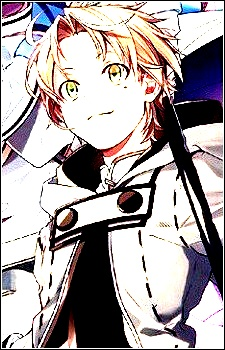
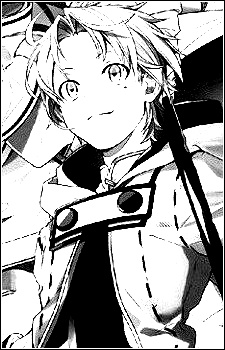
add some file

diff --git a/lab1/7.cat_lat_mat_bit.py b/lab1/7.cat_lat_mat_bit.py
@@ -1,17 +1,17 @@
 import numpy as np
 import cv2
-# https://theailearner.com/2019/01/25/bit-plane-slicing/
-# Read the image in greyscale
 img = cv2.imread('rudi.jpg',0)
-
-#Iterate over each pixel and change pixel value to binary using np.binary_repr() and store it in a list.
 lst = []
 for i in range(img.shape[0]):
     for j in range(img.shape[1]):
-         lst.append(np.binary_repr(img[i][j] ,width=8)) # width = no. of bits
+         lst.append(np.binary_repr(img[i][j] ,width=8))
 
-# We have a list of strings where each string represents binary pixel value. To extract bit planes we need to iterate over the strings and store the characters corresponding to bit planes into lists.
-# Multiply with 2^(n-1) and reshape to reconstruct the bit image.
+'''
+# Chúng tôi có một danh sách các chuỗi trong đó mỗi chuỗi đại diện cho giá trị pixel nhị phân. 
+Để trích xuất các mặt phẳng bit, 
+chúng ta cần lặp qua các chuỗi và lưu trữ các ký tự tương ứng với các mặt phẳng bit vào danh sách.
+# Nhân với 2 ^ (n-1) và định hình lại để tạo lại hình ảnh bit.
+'''
 eight_bit_img = (np.array([int(i[0]) for i in lst],dtype = np.uint8) * 128).reshape(img.shape[0],img.shape[1])
 seven_bit_img = (np.array([int(i[1]) for i in lst],dtype = np.uint8) * 64).reshape(img.shape[0],img.shape[1])
 six_bit_img = (np.array([int(i[2]) for i in lst],dtype = np.uint8) * 32).reshape(img.shape[0],img.shape[1])
@@ -21,19 +21,18 @@ three_bit_img = (np.array([int(i[5]) for i in lst],dtype = np.uint8) * 4).reshap
 two_bit_img = (np.array([int(i[6]) for i in lst],dtype = np.uint8) * 2).reshape(img.shape[0],img.shape[1])
 one_bit_img = (np.array([int(i[7]) for i in lst],dtype = np.uint8) * 1).reshape(img.shape[0],img.shape[1])
 
-#Concatenate these images for ease of display using cv2.hconcat()
+#Concatenate những hình ảnh này để dễ hiển thị bằng cv2.hconcat ()
 finalr = cv2.hconcat([eight_bit_img,seven_bit_img,six_bit_img,five_bit_img])
 finalv =cv2.hconcat([four_bit_img,three_bit_img,two_bit_img,one_bit_img])
 
-# Vertically concatenate
+# Nối theo chiều dọc
 final = cv2.vconcat([finalr,finalv])
 
-# Display the images
 cv2.imshow('a',final)
 
-# Combining 4 bit planes
+# Kết hợp các mặt phẳng 4 bit
 new_img = eight_bit_img+seven_bit_img+six_bit_img+five_bit_img
-# Display the image
+
 cv2.imshow('a2',new_img)
 cv2.waitKey(0)
 

diff --git a/lab1/can bang  histogram demo.py b/lab1/can bang  histogram demo.py
@@ -1,0 +1,50 @@
+import cv2
+import numpy as np
+import matplotlib.pyplot as plt
+
+img = cv2.imread('rudi.jpg', 0)
+img_equal_hist = cv2.equalizeHist(img)
+
+f, axes = plt.subplots(2,2, figsize=(30,20))
+axes[0, 0].imshow(cv2.cvtColor(img, cv2.COLOR_BGR2RGB))
+axes[0, 0].set_title('origin')
+axes[0, 1].imshow(cv2.cvtColor(img_equal_hist, cv2.COLOR_BGR2RGB))
+axes[0, 1].set_title('hist equal')
+axes[1, 0].hist(img.flatten(), 256, [0,256])
+axes[1, 1].hist(img_equal_hist.flatten(), 256, [0,256])
+plt.show()
+plt.close()
+
+
+
+# import numpy as np
+# import scipy.misc, math
+# from scipy.misc.pilutil import Image
+
+# img = Image.open('rudi.jpg').convert('L')
+
+# # img is converted to an ndarray
+# img1 = scipy.misc.fromimage(img)
+# # 2D array is convereted to an 1D
+# fl = img1.flatten()
+# # histogram and the bins of the image are computed
+# hist,bins = np.histogram(img1,256,[0,255])
+# # cumulative distribution function is computed
+# cdf = hist.cumsum()
+# # places where cdf=0 is masked or ignored and
+# # rest is stored in cdf_m
+# cdf_m = np.ma.masked_equal(cdf,0)
+# # histogram equalization is performed
+# num_cdf_m = (cdf_m - cdf_m.min())*255
+# den_cdf_m = (cdf_m.max()-cdf_m.min())
+# cdf_m = num_cdf_m/den_cdf_m
+# # the masked places in cdf_m are now 0
+# cdf = np.ma.filled(cdf_m,0).astype('uint8')
+
+# im2 = cdf[fl]
+
+# im3 = np.reshape(im2,img1.shape)
+
+# im4 = scipy.misc.toimage(im3)
+
+# im4.save('hequalization_output.png')

diff --git a/lab1/5.keo_dan_do_tuong_phan.py b/lab1/5.keo_dan_do_tuong_phan.py
@@ -1,22 +1,27 @@
-'''
-Contrast Stretching: keo dan do tuong phan
-p103
-'''
 import cv2 
-import cv2
-import numpy as np
+import numpy as np 
+  
+def pixelVal(pix, r1, s1, r2, s2): 
+    if (0 <= pix and pix <= r1): 
+        return (s1 / r1)*pix 
+    elif (r1 < pix and pix <= r2): 
+        return ((s2 - s1)/(r2 - r1)) * (pix - r1) + s1 
+    else: 
+        return ((255 - s2)/(255 - r2)) * (pix - r2) + s2 
+  
 
-# Read the image
-img1 = cv2.imread('rudi.jpg',0)
+img = cv2.imread('rudi_xam.jpg') 
+r1 = 70
+s1 = 0
+r2 = 140
+s2 = 255
+  
+pixelVal_vec = np.vectorize(pixelVal) 
+   
+contrast_stretched = pixelVal_vec(img, r1, s1, r2, s2) 
+ 
+cv2.imwrite('contrast_stretch.jpg', contrast_stretched) 
 
-# Create zeros array to store the stretched image
-minmax_img = np.zeros((img1.shape[0],img1.shape[1]),dtype = 'uint8')
+cv2.imshow('contrast_stretch',contrast_stretched)
 
-# Loop over the image and apply Min-Max formulae
-for i in range(img1.shape[0]):
-    for j in range(img1.shape[1]):
-        minmax_img[i,j] = 255*(img1[i,j]-np.min(img1))/(np.max(img1)-np.min(img1))
-
-# Displat the stretched image
-cv2.imshow('Minmax',minmax_img)
 cv2.waitKey(0)

diff --git a/lab1/6.cat_lat_muc_xam.py b/lab1/6.cat_lat_muc_xam.py
@@ -1,29 +1,12 @@
 import cv2 
 import numpy as np 
-# https://www.geeksforgeeks.org/point-processing-in-image-processing-using-python-opencv/
+
 img = cv2.imread('food.png',0) 
-
-# Để xác định tổng số
-# hàng và cột của hình ảnh,
-# kích thước của hình ảnh
 m,n = img.shape 
-
-# Để tìm mức xám tối đa
-# giá trị trong hình ảnh 
 L = img.max() 
-
-# Giá trị mức xám tối đa trừ
-# hình ảnh ban đầu cung cấp cho
-# hình ảnh âm bản
 img_neg = L-img 
-
-# giá trị ngưỡng thấp hơn
 T1 = 100
-
-# giá trị ngưỡng trên
 T2 = 180
-
-# tạo một mảng các số không
 img_thresh_back = np.zeros((m,n), dtype = int) 
 
 for i in range(m): 
@@ -35,8 +18,10 @@ for i in range(m):
 		else: 
 			img_thresh_back[i,j] = img[i,j] 
 
-# Chuyển mảng sang hình ảnh png
 cv2.imwrite('Cameraman_Thresh_Back.png', img_thresh_back) 
-cv2.imshow('Hi', img_thresh_back)
+# cv2.imshow('Hi', img_thresh_back)
+img2 = cv2.imread('Cameraman_Thresh_Back.png')
+cv2.imshow('Anh Goc',img)
+cv2.imshow('Cat lat muc xam',img2)
 cv2.waitKey(0)
 cv2.destroyAllWindows()

diff --git a/lab1/8.can bang histogram.py b/lab1/8.can bang histogram.py
@@ -1,0 +1,16 @@
+import cv2
+import numpy as np
+import matplotlib.pyplot as plt
+
+img = cv2.imread('rudi.jpg', 0)
+img_equal_hist = cv2.equalizeHist(img)
+
+f, axes = plt.subplots(2,2, figsize=(30,20))
+axes[0, 0].imshow(cv2.cvtColor(img, cv2.COLOR_BGR2RGB))
+axes[0, 0].set_title('origin')
+axes[0, 1].imshow(cv2.cvtColor(img_equal_hist, cv2.COLOR_BGR2RGB))
+axes[0, 1].set_title('hist equal')
+axes[1, 0].hist(img.flatten(), 256, [0,256])
+axes[1, 1].hist(img_equal_hist.flatten(), 256, [0,256])
+plt.show()
+plt.close()

diff --git a/lab1/doi_anh_mau.py b/lab1/doi_anh_mau.py
@@ -5,6 +5,7 @@ anh_xam = cv2.cvtColor(anh_goc, cv2.COLOR_BGR2GRAY)
 (threah,anh_den_trang) = cv2.threshold(anh_xam,127,255,cv2.THRESH_BINARY)
 
 cv2.imshow("Anh Xam",anh_xam)
+cv2.imwrite('rudi_xam.jpg',anh_xam)
 cv2.imshow("Anh den trang", anh_den_trang)
 
 cv2.waitKey(0)
